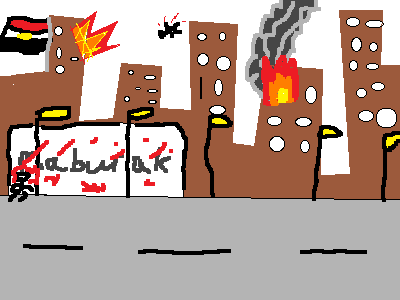
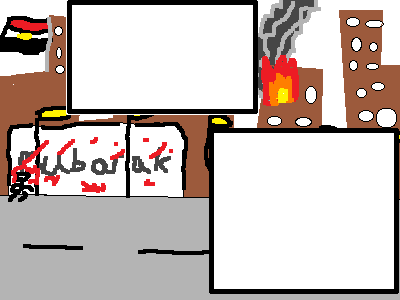
MILLIONS of strings

diff --git a/src/rob/nonMainGames/sideGames/RebellionPD/Panel.java b/src/rob/nonMainGames/sideGames/RebellionPD/Panel.java
@@ -13,6 +13,7 @@ public class Panel extends JPanel implements ActionListener {
     private Enemy enemy;
     private int WIDTH, HEIGHT;
     private int Y, X;
+    public static int textSlide;
 
     public Panel() {
         Y = 150;
@@ -60,14 +61,32 @@ public class Panel extends JPanel implements ActionListener {
     }
 
     private void getBackground(Graphics2D d, ImageIcon fbg, ImageIcon sbg, ImageIcon tbg) {
+        d.setFont(new Font("Courier", Font.PLAIN, 10));
+        String[] slides = new String[]{"THE ARAB SPRING INTERACTIVE", "PRESENTATION", "BY ROBM AND KEMH", "WE WILL COVER THE COUNTRIES",
+                "EGYPT, LIBYA AND SYRIA", "WE HOPE YOU ENJOY :)", "IN EGYPT THE ARMY REFUSES", "TO FIGHT WHICH MEANS THAT", "THE PEOPLE OF EGYPT WERE FREE",
+                "TO PROTEST ABOUT THE OPPRESSIVE", "REGIME OF ", "MUHAMMED HOSNI EL SAYED MUBARAK.", "MUBARAK STEPS DOWN WITHIN",
+                "A FEW MONTHS DUE TO", "PROTESTS AND INTERNATIONAL", "PRESSURE.", "EGYPT IS AN EXCELLENT", "EGYPT IS AN EXCELLENT",
+                "EXAMPLE OF POPULAR", "DEMONSTRATION BRINGING", "ABOUT JUSTICE AND DEMOCRACY.", "HOWEVER IN LIGHT OF THIS",
+                "SUCCESS THERE WAS VIOLENCE", "DURING THE TIME BEFORE", "MUBARAK'S RESIGNATION AND", "PEOPLE DID DIE.",
+                "ALSO THE MUSLIM BROTHERHOOD", "-BELIEVED TO BE LINKED WITH", "AL-QAEDA DID BECOME POPULAR", "WHICH COULD HAVE BECOME A",
+                "SECURITY THREAT", "OVERALL IN EGYPT THE RESULT", "WAS POSITIVE FOR THE PEOPLE", "AND FOR JUSTICE", "IN LIBYA THE CONFLICT",
+                "WAS MORE VIOLENT.", "ALTHOUGH GADDAFI DID", "HEAVILY USE PROPAGANDA", "HIS USE OF THE MILITARY", "WAS MORE VISIBLE", "TO US LOOKING AT OUR",
+                "TELEVISIONS.", "THE BATTLE BETWEEN THE REBEL", "FORCES AND THE GOVERNMENT", "FORCES WAS FOUGHT", "IN A GUERRILLA SURROUNDING",
+                "THIS MEANT THAT NUMBERS", " WERE LESS IMPORTANT IN THE", "CONFLICT WHICH IS WHY AT", "THE BEGINNING THE REBELS",
+                "WERE ABLE TO STAY 'IN IT'", "AFTER THIS IN AREAS", "LIKE TRIPOLI", "THE FIGHTING BECAME MORE", "INTENSE AND THE", "REBELS SEEMED TO BE",
+                "SO CLOSE TO VICTORY", "FOR SO LONG", "THE TEMPO OF THE FIGHTING", "SLOWED CONSIDERABLY", "TOWARDS THE END OF", "THE FIGHTING"};
         if (player.kills < 10) {
             d.drawImage(fbg.getImage(), 3, 3, this);
-        } else if (player.kills >= 10 && player.kills < 20) {
+            d.drawString(slides[textSlide], 90, 80);
+        } else if (player.kills >= 10 && player.kills < 30) {
             d.drawImage(sbg.getImage(), 0, 0, this);
-        } else if (player.kills >= 20 && player.kills < 30) {
+            d.drawString(slides[textSlide], 85, 20);
+        } else if (player.kills >= 30 && player.kills < 50) {
             d.drawImage(tbg.getImage(), 0, 0, this);
+            d.drawString(slides[textSlide], 100, 70);
         } else {
             d.drawImage(fbg.getImage(), 0, 0, this);
+            d.drawString(slides[textSlide], 90, 80);
         }
     }
 

diff --git a/src/rob/nonMainGames/sideGames/RebellionPD/Player.java b/src/rob/nonMainGames/sideGames/RebellionPD/Player.java
@@ -62,6 +62,9 @@ public class Player {
                 crouching = CROUCH;
             }
         }
+        if (key == KeyEvent.VK_SPACE) {
+            Panel.textSlide++;
+        }
     }
 
     public void keyReleased(KeyEvent e) {
